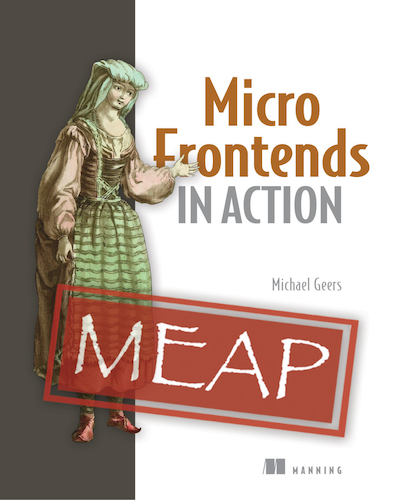
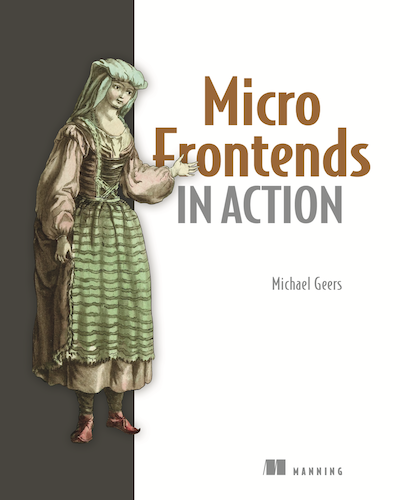
📕 the book is released

Changed region(s): [[0.0, 0.0, 0.93, 1.0], [0.66, 0.9, 0.87, 0.96], [0.39, 0.39, 0.42, 0.42]]

diff --git a/_layouts/default.html b/_layouts/default.html
@@ -92,18 +92,30 @@
           </div>
           <div class="book">
             <div class="book__inner">
-              <h2>🚜 The Book</h2>
-              <a href="https://www.manning.com/books/micro-frontends-in-action?a_aid=mfia&a_bid=5f09fdeb">
-                <img src="/ressources/images/micro-frontends-in-action-book-200.png" srcset="/ressources/images/micro-frontends-in-action-book-200.png 1x, /ressources/images/micro-frontends-in-action-book-400.png 2x" alt="book cover Micro Frontends in Action">
-                <span>
-                    <strong>Micro Frontends in Action</strong>
-                    available in Manning Early Access Program (MEAP)
-                </span>
-              </a>
+              <h2>The Book 🚜</h2>
+              <div class="book__details">
+                <a href="https://www.manning.com/books/micro-frontends-in-action?a_aid=mfia&a_bid=5f09fdeb">
+                  <img src="/ressources/images/micro-frontends-in-action-book-200.png" srcset="/ressources/images/micro-frontends-in-action-book-200.png 1x, /ressources/images/micro-frontends-in-action-book-400.png 2x" alt="book cover Micro Frontends in Action">
+                </a>
+                <div class="book__text">
+                  <strong>Micro Frontends in Action</strong>
+                  <p>find the interactive examples at <a href="https://the-tractor.store/">the-tractor.store</a>.</p>
+                  <p>buy it as print or ebook
+                    from <a href="https://www.manning.com/books/micro-frontends-in-action?a_aid=mfia&a_bid=5f09fdeb">Manning Publications</a>, <a href="https://amzn.to/3mmULsY">Amazon</a> or your <a href="https://en.wikipedia.org/wiki/Special:BookSources?isbn=1617296872" class="favorite-link">favorite book store</a>.
+                    <small class="favorite-note hidden">💚 Support your local bookseller!<br>The ISBN is <a href="https://en.wikipedia.org/wiki/Special:BookSources?isbn=1617296872">1617296872</a>.<br>Every print book comes with a free code for the kindle, ebook, PDF and online version.</small>
+                  </p>
+                </div>
+              </div>
             </div>
           </div>
         </aside>
       </div>
     </div>
+    <script>
+      document.querySelector('.favorite-link').addEventListener('click', function(e) {
+        e.preventDefault();
+        var note = document.querySelector('.favorite-note').classList.toggle('hidden')
+      });
+    </script>
   </body>
 </html>

diff --git a/assets/css/style.scss b/assets/css/style.scss
@@ -100,7 +100,7 @@ aside#sidebar {
 
 aside#sidebar h2 {
   margin-top: 0;
-  text-align: center;
+  text-align: left;
 }
 
 aside#sidebar > * {
@@ -140,17 +140,33 @@ aside#sidebar .book__inner {
   top: 1em;
   bottom: 1em;
   display: block;
-  text-align: center;
+  text-align: left;
 }
 
 aside#sidebar .book img {
-  margin: .5em auto;
+  margin: 0.75em 0;
   padding: 0;
   border: 1px solid #4F4A44;
   box-sizing: border-box;
   display: block;
   width: 200px;
   height: 250px;
+}
+
+aside#sidebar .book p {
+  margin: 0.75em 0;
+}
+
+aside#sidebar .book small {
+  opacity: 0.9;
+  display: block;
+  transition: opacity 250ms ease-in;
+  font-size: 0.9em;
+  margin: 0.75em 0;
+}
+
+aside#sidebar .book .hidden {
+  opacity: 0;
 }
 
 
@@ -176,27 +192,19 @@ aside#sidebar .book img {
   }
 
   aside#sidebar .book {
-    text-align: left;
     height: auto;
-    max-width: 400px;
+    position: relative;
   }
 
-  aside#sidebar .book__inner {
-    text-align: left;
-  }
-
-  aside#sidebar .book__inner a {
+  aside#sidebar .book__details {
     display: flex;
-  }
-
-  aside#sidebar .book__inner .claim {
-    display: none;
   }
 
   aside#sidebar .book__inner img {
     margin: 0 1em 0.5em 0;
     width: 160px;
-    height: 200px;
+    height: auto;
+    max-width: 33vw;
   }
 }
 

diff --git a/index.md b/index.md
@@ -327,14 +327,14 @@ So use this technique wisely and try to get user feedback.
 
 ## Navigating Between Pages
 
-__to be continued soon...__
+__to be continued soon ... (I promise)__
 
 watch the [Github Repo](https://github.com/neuland/micro-frontends) to get notified
 
 
 
 ## Additional Resources
-- [Book: Micro Frontends in Action](https://www.manning.com/books/micro-frontends-in-action?a_aid=mfia&a_bid=5f09fdeb) Written by me. Currently in Mannings Early Access Programm (MEAP)
+- [Book: Micro Frontends in Action](https://www.manning.com/books/micro-frontends-in-action?a_aid=mfia&a_bid=5f09fdeb) Written by me.
 - [Talk: Micro Frontends - MicroCPH, Copenhagen 2019](https://www.youtube.com/watch?v=wCHYILvM7kU) ([Slides](https://noti.st/naltatis/zQb2m5/micro-frontends-the-nitty-gritty-details-or-frontend-backend-happyend)) The Nitty Gritty Details or Frontend, Backend, 🌈 Happyend
 - [Talk: Micro Frontends - Web Rebels, Oslo 2018](https://www.youtube.com/watch?v=dTW7eJsIHDg) ([Slides](https://noti.st/naltatis/HxcUfZ/micro-frontends-think-smaller-avoid-the-monolith-love-the-backend)) Think Smaller, Avoid the Monolith, ❤the Backend
 - [Slides: Micro Frontends - JSUnconf.eu 2017](https://speakerdeck.com/naltatis/micro-frontends-building-a-modern-webapp-with-multiple-teams)
@@ -353,7 +353,7 @@ watch the [Github Repo](https://github.com/neuland/micro-frontends) to get notif
 
 ---
 
-## Things to come ...
+## Things to come ... (very soon)
 
 - Use Cases
   - Navigating between pages

diff --git a/README.md b/README.md
@@ -16,7 +16,7 @@ So feel free to contribute by submitting issues or pull requests.
 
 The MIT License
 
-Copyright (C) 2017-2019 [neuland Büro für Informatik](http://www.neuland-bfi.de/), Bremen, Germany
+Copyright (C) 2017-2020 [neuland Büro für Informatik](http://www.neuland-bfi.de/), Bremen, Germany
 
 Permission is hereby granted, free of charge, to any person obtaining a copy of this software and associated documentation files (the "Software"), to deal in the Software without restriction, including without limitation the rights to use, copy, modify, merge, publish, distribute, sublicense, and/or sell copies of the Software, and to permit persons to whom the Software is furnished to do so, subject to the following conditions:
 
